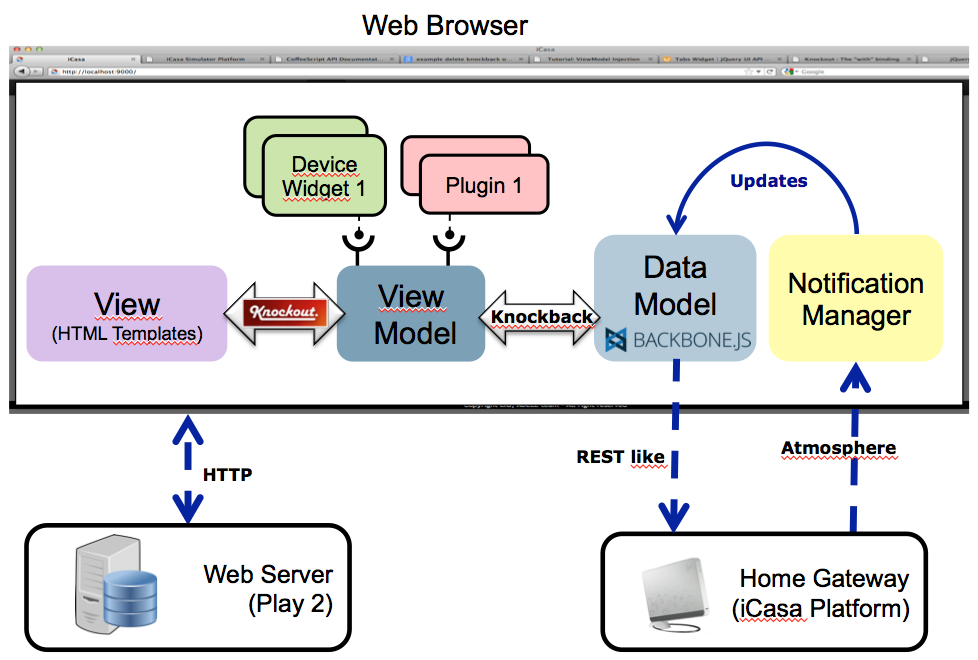
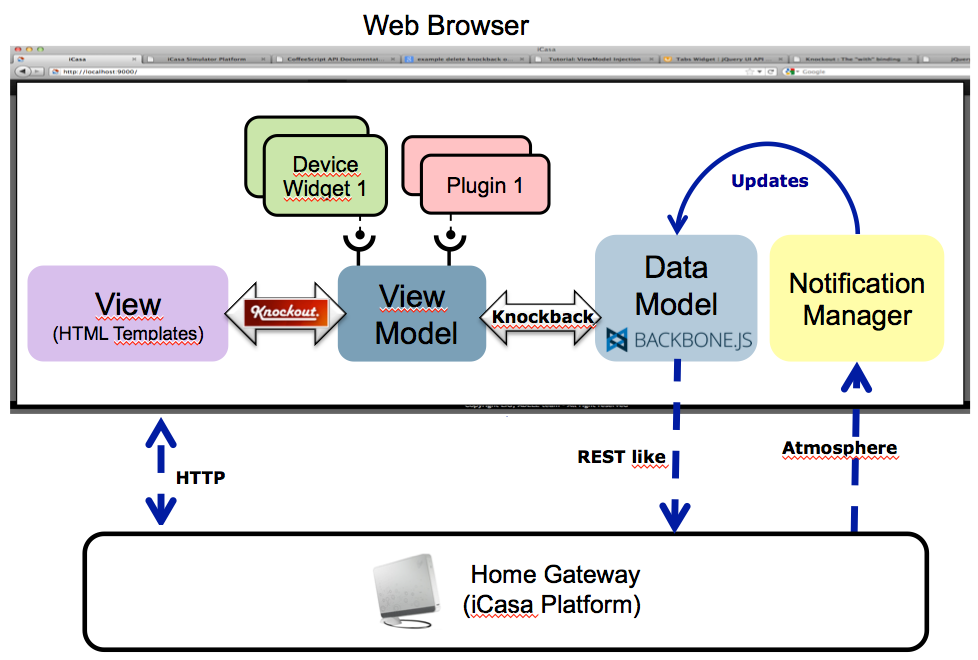
update web architecture documentation

diff --git a/src/site/markdown/guide.md b/src/site/markdown/guide.md
@@ -1,6 +1,6 @@
 # Simulator Web Guide
 
-The simulator module of iCasa platform provides a web interface for interaction with the server side (gateway). In the home page the user can select a simulation platform of the list. To access (locally) the home page in your browser go to this url : [http://localhost:9000/simulator](http://localhost:9000/simulator).
+The simulator module of iCasa platform provides a web interface for interaction with the server side (gateway). In the home page the user can select a simulation platform of the list. To access (locally) the home page in your browser go to this url : [http://localhost:8080/simulator](http://localhost:8080/simulator).
     
 Once one platform selected, the simulator main interface is displayed. The main interface is divided in two sections: the map section presents the house plan, and the actions section shows information about the execution state of the iCasa platform and allows user to modify it.
     
@@ -15,7 +15,7 @@ In this page the user can add a simulation platform, edit it or remove it. Platf
 
 ![Home Page](guide/home-page.png "Home Page")
 
-The user picks a platform to start the main interface of the simulator, shown in the next image. Users can also go directly to simulator main interface using the url pattern _http://localhost:9000/simulator/map/$platformID_, for example to access the default platform that have the id __default__ the user have to go to [http://localhost:9000/simulator/map/default](http://localhost:9000/simulator/map/default)
+The user picks a platform to start the main interface of the simulator, shown in the next image. Users can also go directly to simulator main interface using the url pattern _http://localhost:8080/simulator/map/$platformID_, for example to access the default platform that have the id __default__ the user have to go to [http://localhost:8080/simulator/map/default](http://localhost:8080/simulator/map/default)
 
 ![Main Interface](guide/main-interface.png "Main Interface")
    

diff --git a/src/site/markdown/architecture.md b/src/site/markdown/architecture.md
@@ -48,9 +48,8 @@ The platform will automatically compute the devices which are eligible for a spe
 The web applications provided by iCasa are Simulator GUI and dashboard GUI.
 Their architecture is the same with following parts:
 
-- A Play 2 Webserver that provides web application code and keeps information about maps, their corresponding gateways and the widgets which must be loaded.
 - A Web Browser (Firefox) that executes the application code.
-- The iCasa home gateway that embeds the iCasa execution platform.
+- The iCasa home gateway that embeds the iCasa execution platform and the web resources.
 
 The web application part is mostly written in Coffeescript then compiled to Javascript.
 It implements the architecture described in the following picture.
